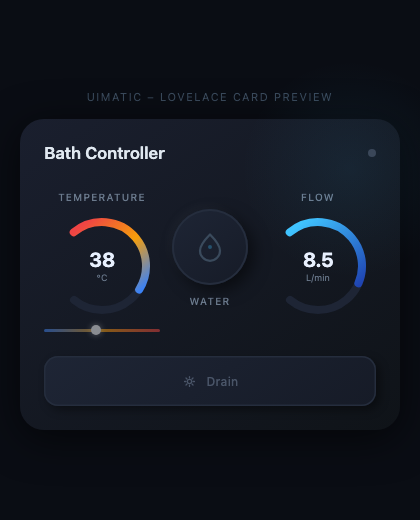
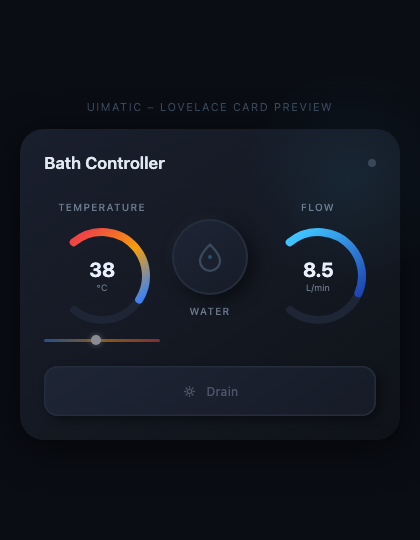
docs: v0.3.5 – fix preview URL (raw.githubusercontent), complete installation guide

diff --git a/README.md b/README.md
@@ -13,97 +13,100 @@ A modern, minimalist **Lovelace custom card** for Home Assistant to control **Ob
 ## Preview
 
 <p align="center">
-  <img src="preview.png" alt="UiMatic Card Preview" width="420" />
+  <img src="https://raw.githubusercontent.com/bobsilesia/UiMatic/main/preview.png" alt="UiMatic Card Preview" width="420" />
 </p>
 
 **Features:**
-- 🌡 Temperature dial (arc slider, 20–60°C)
+- 🌡 Temperature arc dial (20–60°C)
 - 💧 Water ON/OFF button with ripple animation
-- 🌊 Flow rate dial (arc slider, 0–20 L/min)
+- 🌊 Flow rate arc dial (0–10 L/min)
 - 🔵 Drain open/close toggle
 - 🔔 Toast notifications on action
-- 📡 Works via HA entities **or** direct device IP
 
 ---
 
 ## Installation
 
 ### HACS (recommended)
-1. Add this repository as a **Custom Repository** in HACS → Frontend
-2. Install **UiMatic**
-3. Restart Home Assistant
+
+1. In HACS, click **⋮ → Custom repositories**
+2. Add URL: `https://github.com/bobsilesia/UiMatic` → Category: **Dashboard**
+3. Click **Download**
+4. Hard refresh browser: `Ctrl+Shift+R` / `Cmd+Shift+R`
 
 ### Manual
-1. Copy `oblamatik-card.js` to `/config/www/`
-2. Add to Lovelace resources:
-   ```yaml
-   resources:
-     - url: /local/oblamatik-card.js
-       type: module
-   ```
-3. Restart Home Assistant
+
+1. Download `oblamatik-card.js` from [latest release](https://github.com/bobsilesia/UiMatic/releases/latest)
+2. Copy to `/config/www/oblamatik-card.js`
+3. In HA go to **Settings → Dashboards → Resources** → Add resource:
+   - URL: `/local/oblamatik-card.js`
+   - Type: **JavaScript module**
+4. Restart Home Assistant
 
 ---
 
 ## Configuration
 
-### Minimal (via HA entities)
+### Step 1 – Find your entity IDs
 
-> **Note:** Check your exact entity names in **Developer Tools → States** (filter by `oblamatik`).
-> Entity IDs may contain dots (e.g. `switch.water_flow_192.168.1.36`) – always wrap them in quotes in YAML.
+Go to **Developer Tools → States** and filter by `oblamatik`.
 
-```yaml
-type: custom:oblamatik-card
-name: My Bath
-entity_switch: "switch.water_flow_192.168.1.36"
-entity_temperature: "sensor.temperature_192.168.1.36"
-entity_flow: "sensor.flow_rate_192.168.1.36"
-entity_drain: "binary_sensor.bath_drain_192.168.1.36"
-entity_number_temp: "number.temperature_192.168.1.36"
-entity_number_flow: "number.flow_rate_192.168.1.36"
+Your entity IDs will look like:
+```
+switch.oblamatik_192_168_1_36_water_flow
+number.oblamatik_192_168_1_36_temperature
+number.oblamatik_192_168_1_36_flow_rate
+binary_sensor.oblamatik_192_168_1_36_bath_drain
+sensor.oblamatik_192_168_1_36_temperature
+sensor.oblamatik_192_168_1_36_flow_rate
 ```
 
-### Full configuration
+> **Note:** IP address dots are replaced with underscores in entity IDs.
+> Device at `192.168.1.36` → entities contain `192_168_1_36`.
+
+### Step 2 – Add the card
+
+In Lovelace dashboard, add a **Manual card** with this YAML (replace IP part with yours):
 
 ```yaml
 type: custom:oblamatik-card
 name: Bath Controller
-entity_switch: "switch.water_flow_192.168.1.36"
-entity_temperature: "sensor.temperature_192.168.1.36"
-entity_flow: "sensor.flow_rate_192.168.1.36"
-entity_drain: "binary_sensor.bath_drain_192.168.1.36"
-entity_number_temp: "number.temperature_192.168.1.36"
-entity_number_flow: "number.flow_rate_192.168.1.36"
+entity_switch: switch.oblamatik_192_168_1_36_water_flow
+entity_temperature: sensor.oblamatik_192_168_1_36_temperature
+entity_flow: sensor.oblamatik_192_168_1_36_flow_rate
+entity_drain: binary_sensor.oblamatik_192_168_1_36_bath_drain
+entity_number_temp: number.oblamatik_192_168_1_36_temperature
+entity_number_flow: number.oblamatik_192_168_1_36_flow_rate
 min_temp: 20
 max_temp: 60
 min_flow: 0
 max_flow: 10
 ```
 
-### Configuration options
+---
+
+## Configuration options
 
 | Option | Type | Default | Description |
 |--------|------|---------|-------------|
 | `name` | string | `Bath Controller` | Card title |
 | `entity_switch` | entity | — | Switch entity for water on/off |
-| `entity_temperature` | entity | — | Sensor entity for current temperature |
-| `entity_flow` | entity | — | Sensor entity for current flow rate |
-| `entity_drain` | entity | — | Switch entity for drain |
+| `entity_temperature` | entity | — | Sensor for current temperature |
+| `entity_flow` | entity | — | Sensor for current flow rate |
+| `entity_drain` | entity | — | Binary sensor / switch for drain |
 | `entity_number_temp` | entity | — | Number entity to set target temperature |
 | `entity_number_flow` | entity | — | Number entity to set target flow |
 | `min_temp` | number | `20` | Minimum temperature (°C) |
 | `max_temp` | number | `60` | Maximum temperature (°C) |
 | `min_flow` | number | `0` | Minimum flow (L/min) |
-| `max_flow` | number | `20` | Maximum flow (L/min) |
-| `host` | string | — | Device IP (direct API mode) |
-| `port` | number | `80` | Device port (direct API mode) |
+| `max_flow` | number | `10` | Maximum flow (L/min) |
 
 ---
 
 ## Compatibility
 
-- Home Assistant 2025.2+
-- Oblamatik integration ([bobsilesia/oblamatik](https://github.com/bobsilesia/oblamatik))
+- Home Assistant 2022.6+
+- [Oblamatik integration](https://github.com/bobsilesia/oblamatik) required
 - KWC ZOE touch light PRO
 - Viega Multiplex Trio E
 - Crosswater Digital
